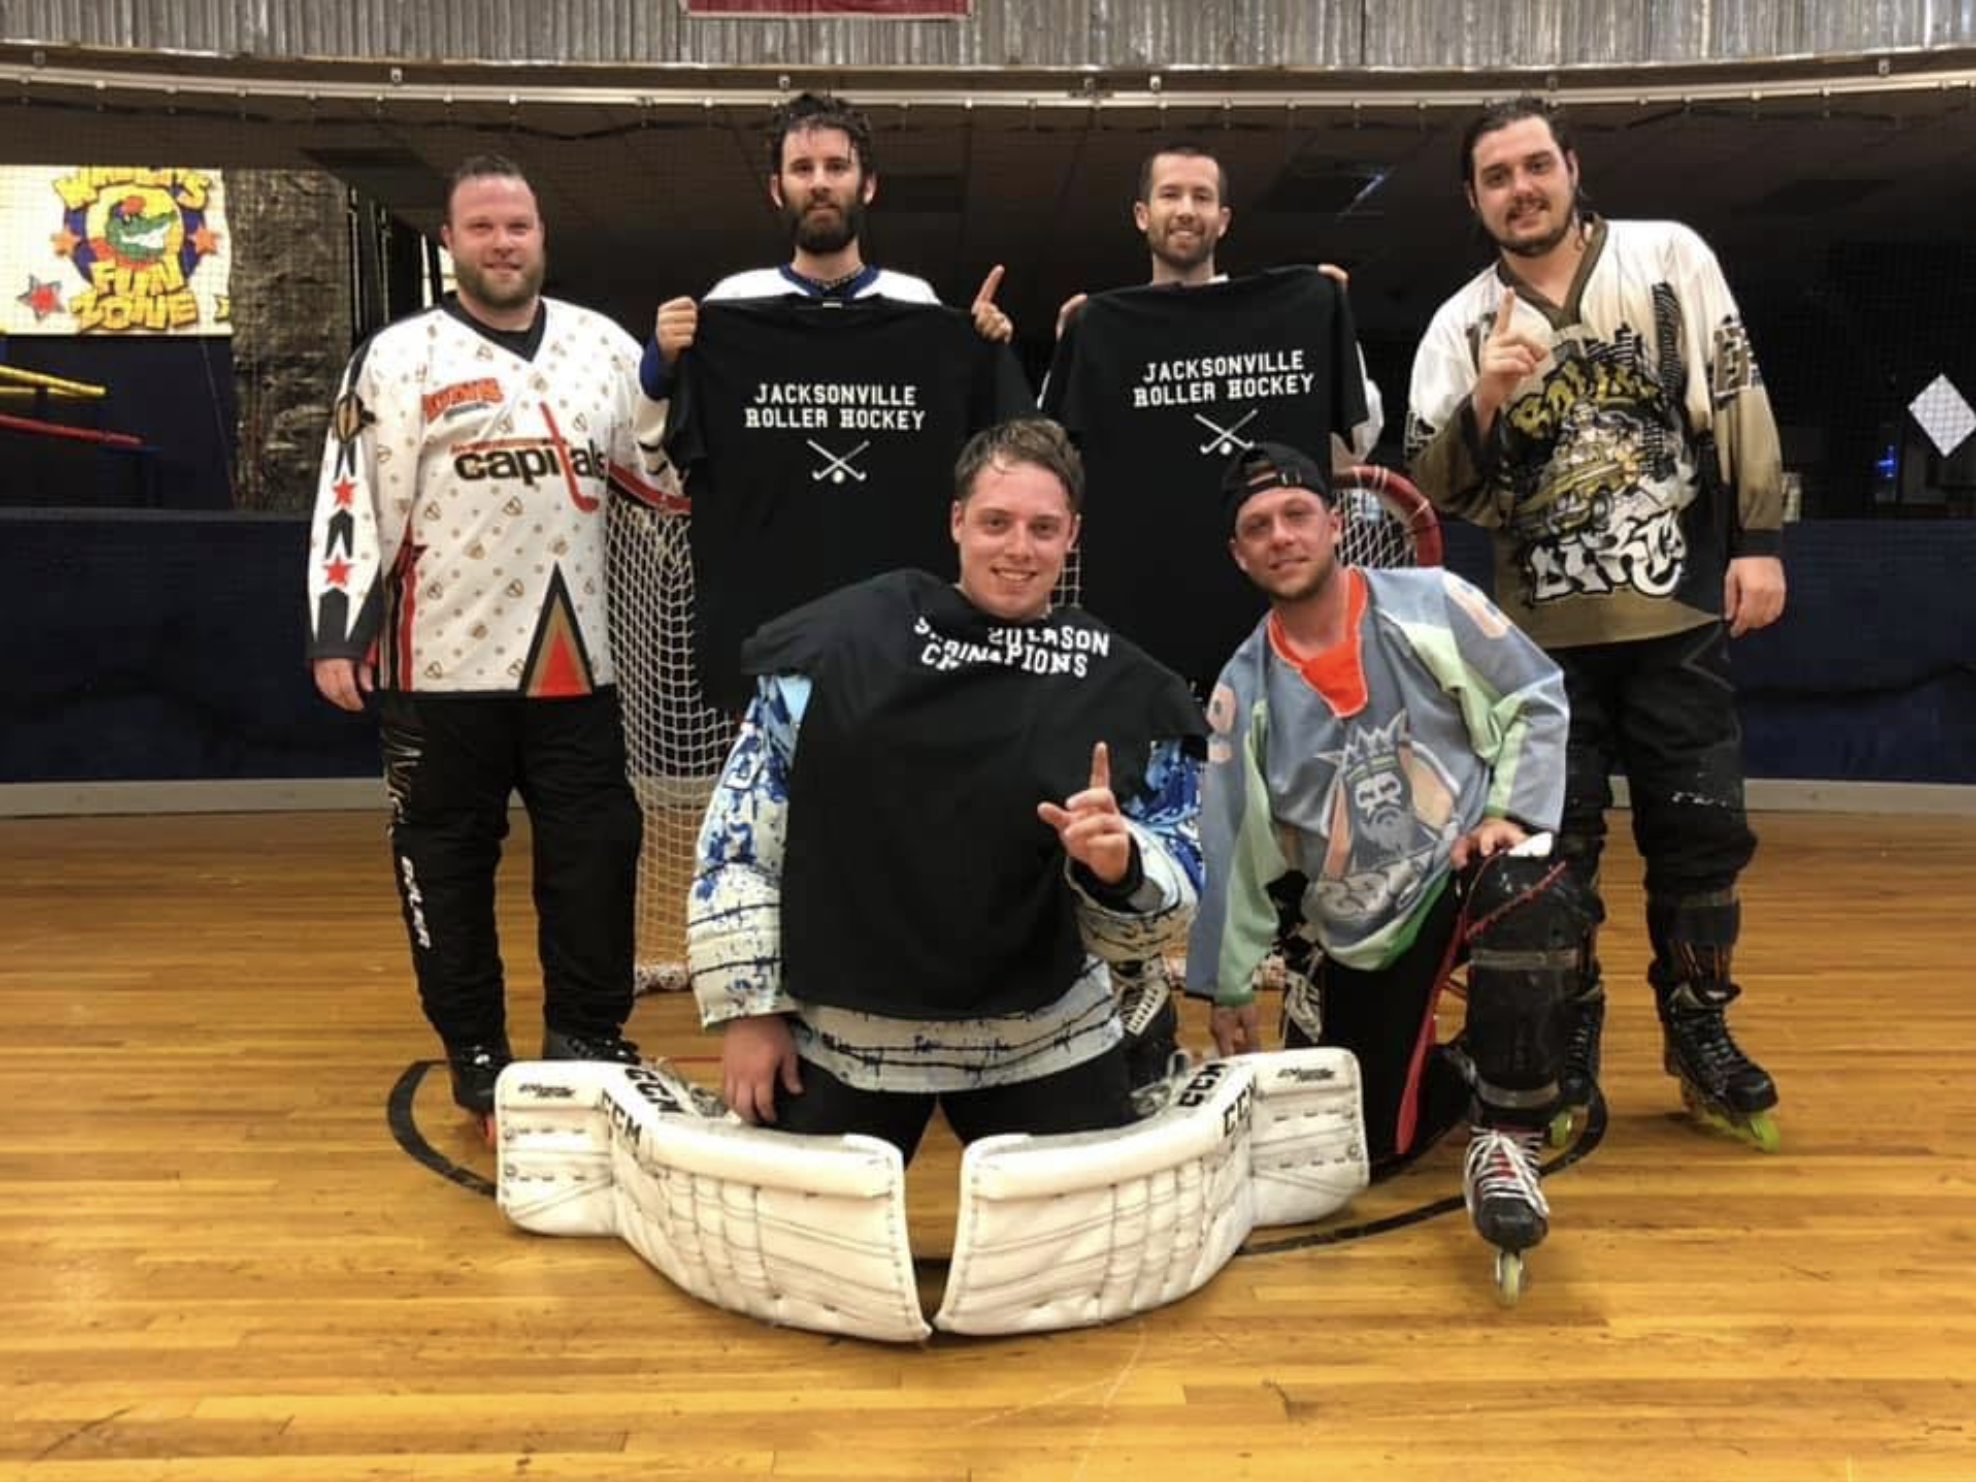
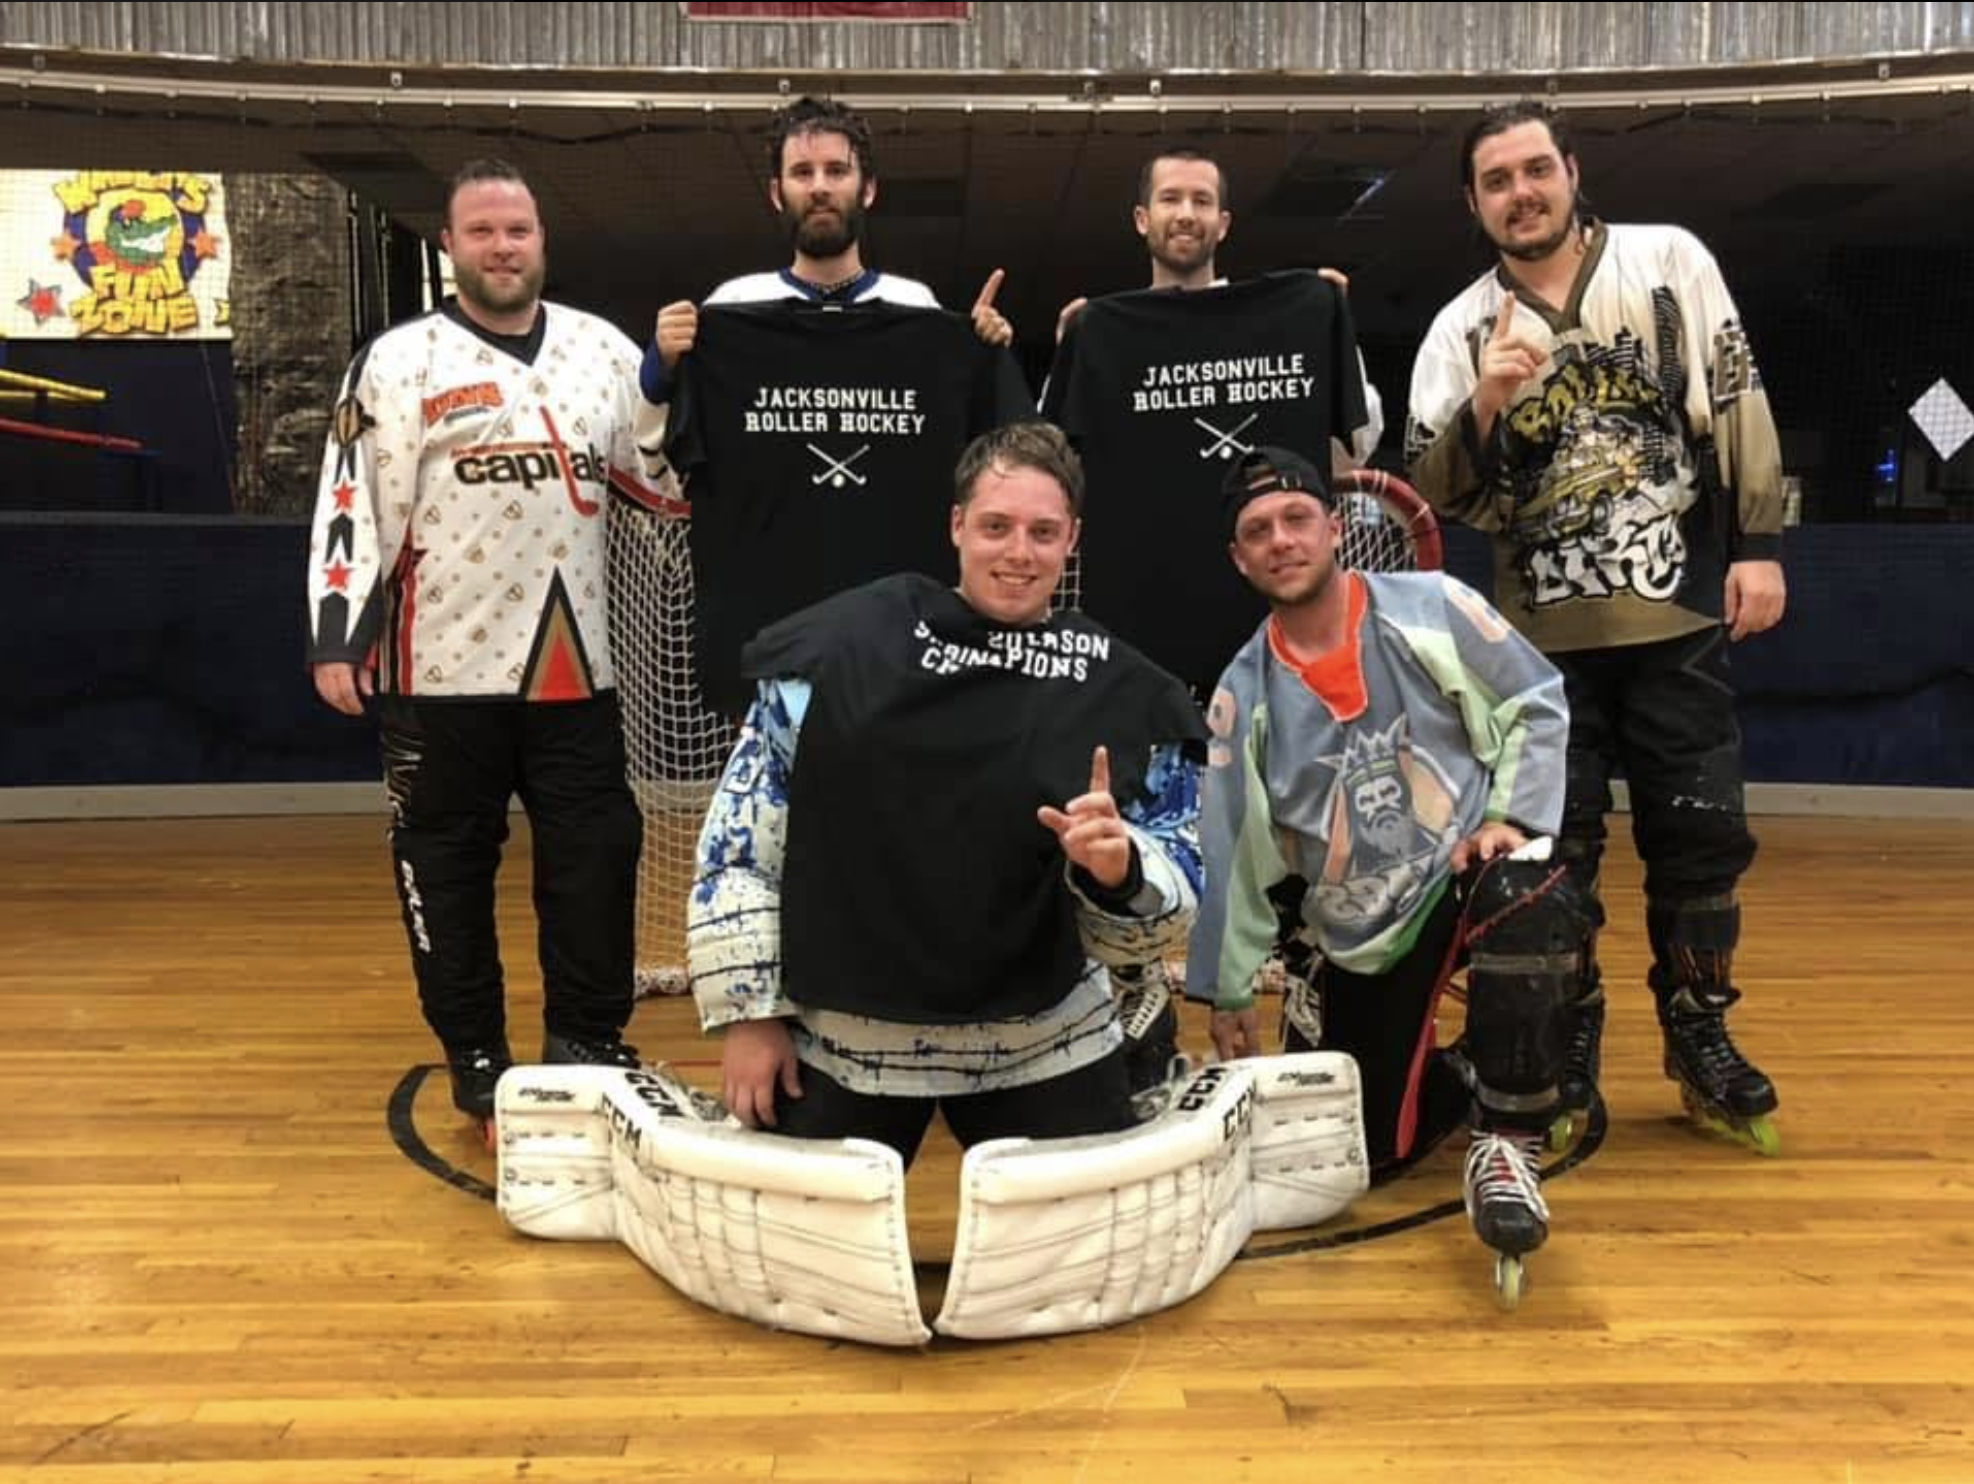
img and hero switch

diff --git a/index.html b/index.html
@@ -50,7 +50,7 @@
 			  </div>
 		  </div>
 		</nav>
-		<section class="hero bg-overlay" id="hero" data-bg="img/fall_jax_champs.jpg">
+		<section class="hero bg-overlay" id="hero" data-bg="img/jax_2019_champs.png">
 			<div class="text">
 				<p class="lead">(League Champs, Citrus Kings)</p>
 				<h1>Jax Roller Hockey</h1>
